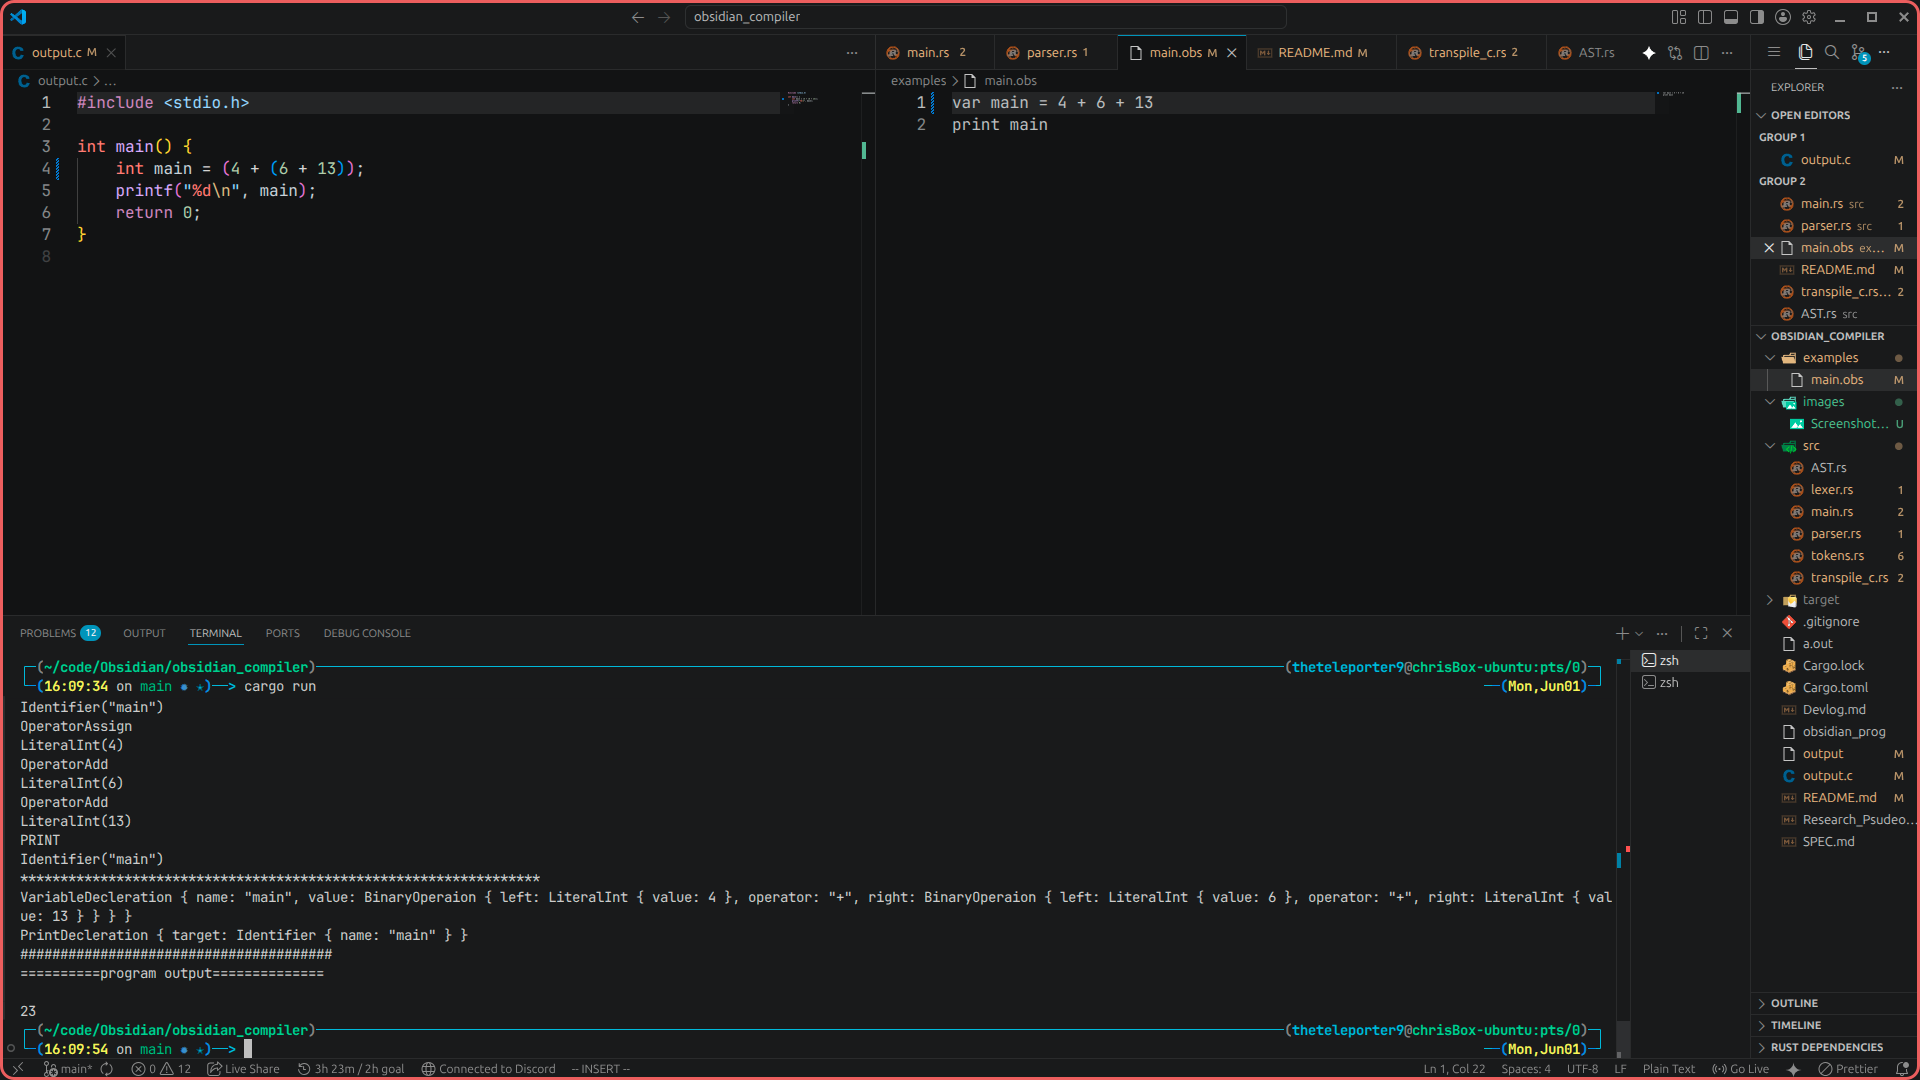
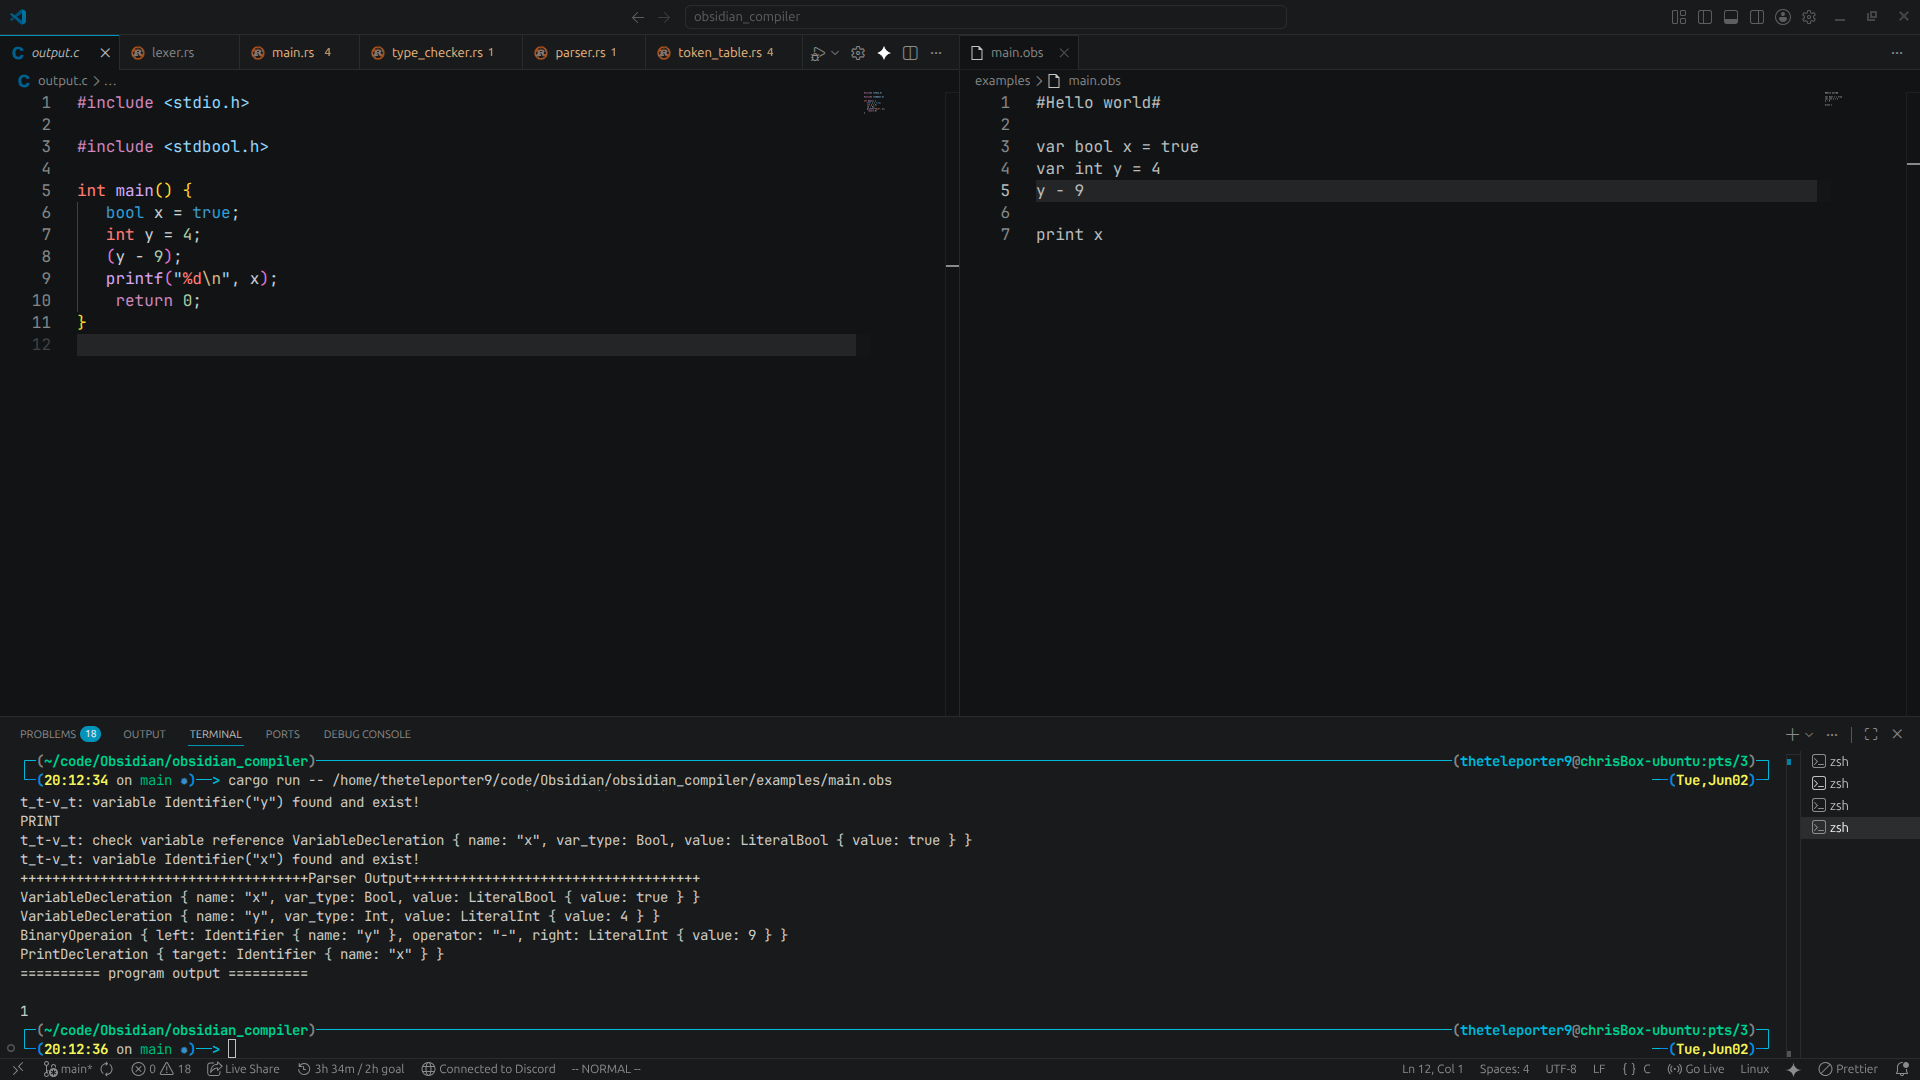
Added README Requirements

diff --git a/README.md b/README.md
@@ -27,6 +27,49 @@ or with Binary:
 obsidian /path/to/program.obs
 ```
 
+## Language Syntax & Features
+Core Syntax
+is keywork driven
+
+## Strings currently do not exists, it will cause an error!
+
+```Variable Declaration: var <type> <name> = <value>```
+
+### Types:
+- #### bool -> either true or false (enforced)
+- #### int -> any hole number
+- #### float -> any fraction number
+
+``` Example: var int y = 4 ```
+
+#### Arithmetic Operations: +, -, *, /
+
+
+#### To send output use: ``` print <expression> ```
+### -> At the moment the print statment can't accept strings!
+
+Example Code
+Code snippet
+```
+# Hello World Program #
+var bool x = true
+var int y = 4
+var int z = 10
+
+# Arithmetic is permitted for numeric types #
+var int result = z + y - 9
+
+# Expressions can also be types wihtout needing a result var!#
+z + y - 3 * 5 / z
+# The first variable in the expression sequence will get the result assinged"
+
+# The same as: #
+z = z + y - 3 * 5 / z
+
+
+# Prints the numeric result #
+print result
+```
 Please note this behavior will change in future versions; this is an alpha build.
 
 ![Restult](images/example_output.png)
